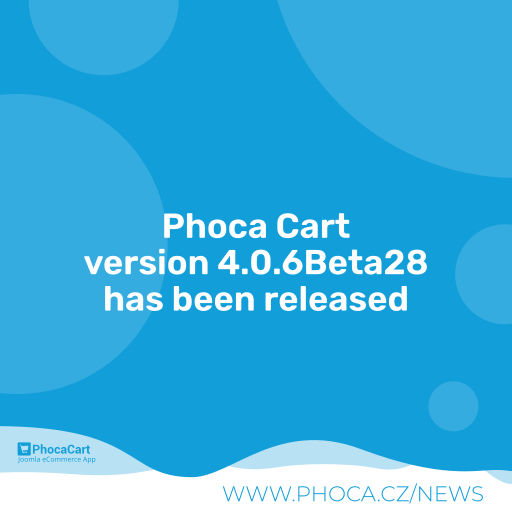
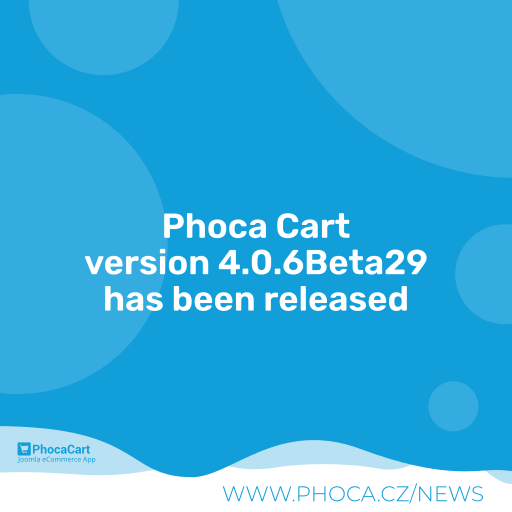
4.0.6Beta29

Changed region(s): [[0.1562, 0.5, 0.8438, 0.5312]]

diff --git a/media/js/phoca/phocafilter.min.js b/media/js/phoca/phocafilter.min.js
@@ -1,1 +1,1 @@
-"use strict";function _readOnlyError(e){throw new TypeError('"'+e+'" is read-only')}function ownKeys(r,e){var t,i=Object.keys(r);return Object.getOwnPropertySymbols&&(t=Object.getOwnPropertySymbols(r),e&&(t=t.filter(function(e){return Object.getOwnPropertyDescriptor(r,e).enumerable})),i.push.apply(i,t)),i}function _objectSpread(r){for(var e=1;e<arguments.length;e++){var t=null!=arguments[e]?arguments[e]:{};e%2?ownKeys(Object(t),!0).forEach(function(e){_defineProperty(r,e,t[e])}):Object.getOwnPropertyDescriptors?Object.defineProperties(r,Object.getOwnPropertyDescriptors(t)):ownKeys(Object(t)).forEach(function(e){Object.defineProperty(r,e,Object.getOwnPropertyDescriptor(t,e))})}return r}function _defineProperty(e,r,t){return r in e?Object.defineProperty(e,r,{value:t,enumerable:!0,configurable:!0,writable:!0}):e[r]=t,e}function _slicedToArray(e,r){return _arrayWithHoles(e)||_iterableToArrayLimit(e,r)||_unsupportedIterableToArray(e,r)||_nonIterableRest()}function _nonIterableRest(){throw new TypeError("Invalid attempt to destructure non-iterable instance.\nIn order to be iterable, non-array objects must have a [Symbol.iterator]() method.")}function _unsupportedIterableToArray(e,r){if(e){if("string"==typeof e)return _arrayLikeToArray(e,r);var t=Object.prototype.toString.call(e).slice(8,-1);return"Map"===(t="Object"===t&&e.constructor?e.constructor.name:t)||"Set"===t?Array.from(e):"Arguments"===t||/^(?:Ui|I)nt(?:8|16|32)(?:Clamped)?Array$/.test(t)?_arrayLikeToArray(e,r):void 0}}function _arrayLikeToArray(e,r){(null==r||r>e.length)&&(r=e.length);for(var t=0,i=new Array(r);t<r;t++)i[t]=e[t];return i}function _iterableToArrayLimit(e,r){var t=null==e?null:"undefined"!=typeof Symbol&&e[Symbol.iterator]||e["@@iterator"];if(null!=t){var i,l,a=[],o=!0,n=!1;try{for(t=t.call(e);!(o=(i=t.next()).done)&&(a.push(i.value),!r||a.length!==r);o=!0);}catch(e){n=!0,l=e}finally{try{o||null==t.return||t.return()}finally{if(n)throw l}}return a}}function _arrayWithHoles(e){if(Array.isArray(e))return e}function _typeof(e){return(_typeof="function"==typeof Symbol&&"symbol"==typeof Symbol.iterator?function(e){return typeof e}:function(e){return e&&"function"==typeof Symbol&&e.constructor===Symbol&&e!==Symbol.prototype?"symbol":typeof e})(e)}var phFilterNewUrlSet="",phFilterNewUrlRemove="",phFilterNewUrlSetPreviousParamWaiting=0,phFilterNewUrlRemovePreviousParamWaiting=0;function phEscapeRegExp(e){return e.replace(/([.*+?^=!:${}()|\[\]\/\\])/g,"\\$1")}function phReplaceAll(e,r,t){return t.replace(new RegExp(phEscapeRegExp(e),"g"),r)}function phEncode(e){e=encodeURIComponent(e);return e=phReplaceAll("%5B","[",e),e=phReplaceAll("%5D","]",e),e=phReplaceAll("%2C",",",e),e=phReplaceAll("%3A",":",e)}function phArrayToString(e){e=phReplaceAll("[","(",e);return e=phReplaceAll("]",")",e)}function phStringToArray(e){e=phReplaceAll("(","[",e);return e=phReplaceAll(")","]",e)}function phCleanArray(e){for(var r=[],t=0;t<e.length;t++)e[t]&&r.push(e[t]);return r}function phCleanEmptyParams(e){return e.replace(/&?[^&?]+=(?=(?:&|$))/g,"")}function phCleanAloneQuestionMark(e){return e="?"==(e="?&"==e?"?":e)?"":e}function phFilterValue(e){e=phReplaceAll("<","",e);return e=phReplaceAll(">","",e)}function phResetNewUrl(e){phFilterNewUrlSet=phFilterNewUrlRemove="",1==e&&(phFilterNewUrlSetPreviousParamWaiting=phFilterNewUrlRemovePreviousParamWaiting=0)}function phIsString(e){return"string"==typeof e}function phGetQueryString(e){return e.replace(/(?:^[^?#]*\?([^#]*).*$)?.*/,"$1")}function phUrlParam(e){if(null==e)return"";function o(e,r){null==(r="function"==typeof r?r():r)&&(r=""),t.push("".concat(encodeURIComponent(e),"=").concat(encodeURIComponent(r)))}function n(t,e){if(Array.isArray(e))e.forEach(function(e,r){p.test(t)?o(t,e):(r="object"===_typeof(e)&&null!=e?r:"",n("".concat(t,"[").concat(r,"]"),e))});else if("object"===_typeof(e)&&null!=e)for(var r=0,i=Object.entries(e);r<i.length;r++){var l=_slicedToArray(i[r],2),a=l[0],l=l[1];n("".concat(t,"[").concat(a,"]"),l)}else o(t,e)}var t=[],p=/\[\]$/;if(Array.isArray(e))e.forEach(function(e){return o(e.name,e.value)});else for(var r=0,i=Object.entries(e);r<i.length;r++){var l=_slicedToArray(i[r],2);n(l[0],l[1])}return t.join("&")}function phUrlDeParam(e,n){var p={},c={true:!0,false:!1,null:null};return e.replace(/\+/g," ").split("&").forEach(function(e){var e=e.split("="),r=decodeURIComponent(e[0]),t="",i=p,l=r.split("]["),a=l.length-1,a=/\[/.test(l[0])&&/\]$/.test(l[a])?(l[a]=l[a].replace(/\]$/,""),(l=l.shift().split("[").concat(l)).length-1):0;if(2===e.length)if(t=decodeURIComponent(e[1]),n&&(t=t&&!isNaN(t)?+t:"undefined"===t?void 0:void 0!==c[t]?c[t]:t),a)for(var o=0;o<=a;o++)i=i[r=""===l[o]?i.length:l[o]]=o<a?i[r]||(l[o+1]&&isNaN(l[o+1])?{}:[]):t;else Array.isArray(p[r])?p[r].push(t):void 0!==p[r]?p[r]=[p[r],t]:p[r]=t;else r&&(p[r]=n?void 0:"")}),p}function phUrlParamQueryString(e,r,t){var i,l,a,o="";return void 0!==r?(a=(i=e.match(/^([^#?]*)\??([^#]*)(#?.*)/))[3]||"",o=2===t&&phIsString(r)?r.replace(/^.*\?|#.*$/g,""):(l=phUrlDeParam(i[2]),r=phIsString(r)?phUrlDeParamQueryString(r):r,phUrlParam(o=2===t?r:1===t?_objectSpread(_objectSpread({},r),l):_objectSpread(_objectSpread({},l),r))),i[1]+(o||!i[1]?"?":"")+o+a):phGetQueryString(void 0!==e?e:window.location.href)}function phUrlDeParamQueryString(e,r){return phUrlDeParam(e=void 0===e||"boolean"==typeof e?(r=e,phUrlParamQueryString()):phIsString(e)?e.replace(/^.*\?|#.*$/g,""):e,r)}function phRemoveFilter(e,r,t,i,l,a,o,n){var p=Joomla.getOptions("phParamsPC");1!=p.ajaxSearchingFilteringItems&&(phFilterNewUrlSet=i),e=phArrayToString(e);var c,h=phArrayToString(h=phUrlParamQueryString()),u=phUrlDeParamQueryString(""!==phFilterNewUrlRemove||1==phFilterNewUrlRemovePreviousParamWaiting?phFilterNewUrlRemove:h),s={},m=0;if(void 0!==u.start&&(s.start=0),void 0!==u.limitstart&&(s.limitstart=0),1!=a&&void 0!==u[e]?-1===(a=phCleanArray(a=(h=u[e]).split(","))).indexOf(r)||(-1<(r=a.indexOf(r))&&a.splice(r,1),(h=a.join())?s[e]=h:(delete u[e],s=u,m=2)):(delete u[e],s=u,m=2),1==t&&1!=l||1!=t)return""==(c=i)&&(c=document.location.pathname),document.location=c,1;if(c=location.search,c=phArrayToString(c=""!==phFilterNewUrlRemove||1==phFilterNewUrlRemovePreviousParamWaiting?phFilterNewUrlRemove:c),phFilterNewUrlRemove=phReplaceAll("%2C",",",phFilterNewUrlRemove=phUrlParamQueryString(c,s,m)),phFilterNewUrlRemove=phReplaceAll("%5B","[",phFilterNewUrlRemove),phFilterNewUrlRemove=phReplaceAll("%5D","]",phFilterNewUrlRemove),phFilterNewUrlRemove=phCleanAloneQuestionMark(phFilterNewUrlRemove=phStringToArray(phFilterNewUrlRemove=phReplaceAll("%3A",":",phFilterNewUrlRemove))),1==o){if((phFilterNewUrlRemovePreviousParamWaiting=1)==t&&1==p.ajaxSearchingFilteringItems)return 2}else{if(1==t&&1==p.ajaxSearchingFilteringItems)return phUpdatePageAndParts(phFilterNewUrlRemove,n),phResetNewUrl(1),2;""==phFilterNewUrlRemove&&(phFilterNewUrlRemove=document.location.pathname),document.location=phFilterNewUrlRemove,phResetNewUrl()}return 1}function phSetFilter(e,r,t,i,l,a,o,n){var p=Joomla.getOptions("phParamsPC");r=phFilterValue(r),e=phArrayToString(e);var c=phArrayToString(c=phUrlParamQueryString()),h=phUrlDeParamQueryString(1==phFilterNewUrlSetPreviousParamWaiting?phFilterNewUrlSet=phArrayToString(phFilterNewUrlSet):c),c={};if(void 0!==h.start&&(c.start=0),void 0!==h.limitstart&&(c.limitstart=0),1==a?c[e]=r:""===r||(void 0!==h[e]?(-1===(h=phCleanArray(h=(a=h[e]).split(","))).indexOf(r)&&(h.push(r),a=h.join()),c[e]=a):c[e]=r),i=1==t&&1!=l||1!=t?i:location.search,i=phArrayToString(i=1==phFilterNewUrlSetPreviousParamWaiting?phFilterNewUrlSet:i),phFilterNewUrlSet=phReplaceAll("%2C",",",phFilterNewUrlSet=phUrlParamQueryString(i,c,0)),phFilterNewUrlSet=phReplaceAll("%5B","[",phFilterNewUrlSet),phFilterNewUrlSet=phReplaceAll("%5D","]",phFilterNewUrlSet),phFilterNewUrlSet=phCleanAloneQuestionMark(phFilterNewUrlSet=phCleanEmptyParams(phFilterNewUrlSet=phStringToArray(phFilterNewUrlSet=phReplaceAll("%3A",":",phFilterNewUrlSet)))),1==o){if((phFilterNewUrlSetPreviousParamWaiting=1)==t&&1==p.ajaxSearchingFilteringItems)return 2}else{if(1==t&&1==p.ajaxSearchingFilteringItems)return phUpdatePageAndParts(phFilterNewUrlSet,n),phResetNewUrl(1),2;document.location=phFilterNewUrlSet,phResetNewUrl()}return 1}function phChangeFilter(e,r,t,i,l,a,o){var n=Joomla.getOptions("phVarsModPhocacartFilter"),p=Joomla.getOptions("phParamsModPhocacartFilter"),c=n.isItemsView,h=n.isSef,u=n.urlItemsView,n=(n.urlItemsViewWithoutParams,1);"itemview"==i?n=phSetFilter(e,r=void 0===r?"":r,1,0,1,l,a,o):"text"==i?n=(1==t?phSetFilter:phRemoveFilter)(e,r,c,u,1,l,a,o):"category"==i?(_readOnlyError("urlItemsView"),1==p.removeParametersCat?document.location=u:(p=phUrlParamQueryString(),1==c?1==h?document.location=phUrlParamQueryString(u,p,2):phRemoveFilter(e,r,c,u,1,l,a,o):document.location=u)):"color"==i||"image"==i?jQuery(t).hasClass("on")?(n=phRemoveFilter(e,r,c,u,1,l,a,o),jQuery(t).removeClass("on")):(n=phSetFilter(e,r,c,u,1,l,a,o),jQuery(t).addClass("on")):n=(t.checked?phSetFilter:phRemoveFilter)(e,r,c,u,1,l,a,o),startFullOverlay(n)}function phChangeSearch(e,r,t){var i=Joomla.getOptions("phVarsModPhocacartSearch"),l=Joomla.getOptions("phParamsModPhocacartSearch"),a=i.isItemsView,o=i.urlItemsView,n=i.urlItemsViewWithoutParams,p=1,i=a;alert(l.searchOptions),p=1==t?(1==l.searchOptions?0<jQuery("#phSearchBoxSearchAllProducts:checked").length&&(o=n,i=0):i=0,phSetFilter(e,r,a,o,i,1,0,2)):phRemoveFilter(e,r,a,o,i,1,0,2),startFullOverlay(p)}function phPriceFilterRange(){var i=Joomla.getOptions("phParamsPC"),l=Joomla.getOptions("phLangPC");"function"==typeof jQuery("#phPriceFilterRange").slider&&jQuery("#phPriceFilterRange").slider({range:!0,min:i.filterPriceMin,max:i.filterPriceMax,values:[i.filterPriceFrom,i.filterPriceTo],slide:function(e,r){jQuery("#phPriceFromTopricefrom").val(r.values[0]),jQuery("#phPriceFromTopriceto").val(r.values[1]),jQuery("#phPriceFilterPrice").html(l.COM_PHOCACART_PRICE+": "+phGetPriceFormat(r.values[0])+" - "+phGetPriceFormat(r.values[1]))}}),jQuery("#phPriceFilterPrice").html(l.COM_PHOCACART_PRICE+": "+phGetPriceFormat(i.filterPriceFrom)+" - "+phGetPriceFormat(i.filterPriceTo)),jQuery("#phPriceFromTopricefrom").on("change",function(e){var r=jQuery("#phPriceFromTopricefrom").val(),t=jQuery("#phPriceFromTopriceto").val();""==t&&(t=i.filterPriceMax),""==r&&(r=i.filterPriceMin),Number(t)<Number(r)&&(t=r,jQuery("#phPriceFromTopriceto").val(t)),"function"==typeof jQuery("#phPriceFilterRange").slider&&jQuery("#phPriceFilterRange").slider({values:[r,t]}),jQuery("#phPriceFilterPrice").html(l.COM_PHOCACART_PRICE+": "+phGetPriceFormat(r)+" - "+phGetPriceFormat(t))}),jQuery("#phPriceFromTopriceto").on("change",function(e){var r=jQuery("#phPriceFromTopricefrom").val(),t=jQuery("#phPriceFromTopriceto").val();""==t&&(t=i.filterPriceMax),""==r&&(r=i.filterPriceMin),Number(t)<Number(r)&&(t=r,jQuery("#phPriceFromTopriceto").val(t)),"function"==typeof jQuery("#phPriceFilterRange").slider&&jQuery("#phPriceFilterRange").slider({values:[r,t]}),jQuery("#phPriceFilterPrice").html(l.COM_PHOCACART_PRICE+": "+phGetPriceFormat(r)+" - "+phGetPriceFormat(t))})}function phClearField(e){jQuery(e).val(""),"#phPriceFromTopricefrom"!=e&&"#phPriceFromTopriceto"!=e||phPriceFilterRange()}jQuery(document).ready(function(){jQuery(".collapse").on("shown.bs.collapse",function(){jQuery(this).parent().find(".glyphicon-triangle-right").removeClass("glyphicon-triangle-right").addClass("glyphicon-triangle-bottom"),jQuery(this).parent().find(".fa-caret-right").removeClass("fa-caret-right").addClass("fa-caret-down");var e,r=jQuery(this).parent().find("svg use").first();0<r.length&&(e=(e=r.attr("xlink:href")).replace("#pc-si-triangle-right","#pc-si-triangle-bottom"),r.attr("xlink:href",e))}).on("hidden.bs.collapse",function(){jQuery(this).parent().find(".glyphicon-triangle-bottom").removeClass("glyphicon-triangle-bottom").addClass("glyphicon-triangle-right"),jQuery(this).parent().find(".fa-caret-down").removeClass("fa-caret-down").addClass("fa-caret-right");var e,r=jQuery(this).parent().find("svg use").first();0<r.length&&(e=(e=r.attr("xlink:href")).replace("#pc-si-triangle-bottom","#pc-si-triangle-right"),r.attr("xlink:href",e))}),phPriceFilterRange()});
+"use strict";function _readOnlyError(e){throw new TypeError('"'+e+'" is read-only')}function ownKeys(r,e){var t,i=Object.keys(r);return Object.getOwnPropertySymbols&&(t=Object.getOwnPropertySymbols(r),e&&(t=t.filter(function(e){return Object.getOwnPropertyDescriptor(r,e).enumerable})),i.push.apply(i,t)),i}function _objectSpread(r){for(var e=1;e<arguments.length;e++){var t=null!=arguments[e]?arguments[e]:{};e%2?ownKeys(Object(t),!0).forEach(function(e){_defineProperty(r,e,t[e])}):Object.getOwnPropertyDescriptors?Object.defineProperties(r,Object.getOwnPropertyDescriptors(t)):ownKeys(Object(t)).forEach(function(e){Object.defineProperty(r,e,Object.getOwnPropertyDescriptor(t,e))})}return r}function _defineProperty(e,r,t){return r in e?Object.defineProperty(e,r,{value:t,enumerable:!0,configurable:!0,writable:!0}):e[r]=t,e}function _slicedToArray(e,r){return _arrayWithHoles(e)||_iterableToArrayLimit(e,r)||_unsupportedIterableToArray(e,r)||_nonIterableRest()}function _nonIterableRest(){throw new TypeError("Invalid attempt to destructure non-iterable instance.\nIn order to be iterable, non-array objects must have a [Symbol.iterator]() method.")}function _unsupportedIterableToArray(e,r){if(e){if("string"==typeof e)return _arrayLikeToArray(e,r);var t=Object.prototype.toString.call(e).slice(8,-1);return"Map"===(t="Object"===t&&e.constructor?e.constructor.name:t)||"Set"===t?Array.from(e):"Arguments"===t||/^(?:Ui|I)nt(?:8|16|32)(?:Clamped)?Array$/.test(t)?_arrayLikeToArray(e,r):void 0}}function _arrayLikeToArray(e,r){(null==r||r>e.length)&&(r=e.length);for(var t=0,i=new Array(r);t<r;t++)i[t]=e[t];return i}function _iterableToArrayLimit(e,r){var t=null==e?null:"undefined"!=typeof Symbol&&e[Symbol.iterator]||e["@@iterator"];if(null!=t){var i,l,a=[],o=!0,n=!1;try{for(t=t.call(e);!(o=(i=t.next()).done)&&(a.push(i.value),!r||a.length!==r);o=!0);}catch(e){n=!0,l=e}finally{try{o||null==t.return||t.return()}finally{if(n)throw l}}return a}}function _arrayWithHoles(e){if(Array.isArray(e))return e}function _typeof(e){return(_typeof="function"==typeof Symbol&&"symbol"==typeof Symbol.iterator?function(e){return typeof e}:function(e){return e&&"function"==typeof Symbol&&e.constructor===Symbol&&e!==Symbol.prototype?"symbol":typeof e})(e)}var phFilterNewUrlSet="",phFilterNewUrlRemove="",phFilterNewUrlSetPreviousParamWaiting=0,phFilterNewUrlRemovePreviousParamWaiting=0;function phEscapeRegExp(e){return e.replace(/([.*+?^=!:${}()|\[\]\/\\])/g,"\\$1")}function phReplaceAll(e,r,t){return t.replace(new RegExp(phEscapeRegExp(e),"g"),r)}function phEncode(e){e=encodeURIComponent(e);return e=phReplaceAll("%5B","[",e),e=phReplaceAll("%5D","]",e),e=phReplaceAll("%2C",",",e),e=phReplaceAll("%3A",":",e)}function phArrayToString(e){e=phReplaceAll("[","(",e);return e=phReplaceAll("]",")",e)}function phStringToArray(e){e=phReplaceAll("(","[",e);return e=phReplaceAll(")","]",e)}function phCleanArray(e){for(var r=[],t=0;t<e.length;t++)e[t]&&r.push(e[t]);return r}function phCleanEmptyParams(e){return e.replace(/&?[^&?]+=(?=(?:&|$))/g,"")}function phCleanAloneQuestionMark(e){return e="?"==(e="?&"==e?"?":e)?"":e}function phFilterValue(e){e=phReplaceAll("<","",e);return e=phReplaceAll(">","",e)}function phResetNewUrl(e){phFilterNewUrlSet=phFilterNewUrlRemove="",1==e&&(phFilterNewUrlSetPreviousParamWaiting=phFilterNewUrlRemovePreviousParamWaiting=0)}function phIsString(e){return"string"==typeof e}function phGetQueryString(e){return e.replace(/(?:^[^?#]*\?([^#]*).*$)?.*/,"$1")}function phUrlParam(e){if(null==e)return"";function o(e,r){null==(r="function"==typeof r?r():r)&&(r=""),t.push("".concat(encodeURIComponent(e),"=").concat(encodeURIComponent(r)))}function n(t,e){if(Array.isArray(e))e.forEach(function(e,r){p.test(t)?o(t,e):(r="object"===_typeof(e)&&null!=e?r:"",n("".concat(t,"[").concat(r,"]"),e))});else if("object"===_typeof(e)&&null!=e)for(var r=0,i=Object.entries(e);r<i.length;r++){var l=_slicedToArray(i[r],2),a=l[0],l=l[1];n("".concat(t,"[").concat(a,"]"),l)}else o(t,e)}var t=[],p=/\[\]$/;if(Array.isArray(e))e.forEach(function(e){return o(e.name,e.value)});else for(var r=0,i=Object.entries(e);r<i.length;r++){var l=_slicedToArray(i[r],2);n(l[0],l[1])}return t.join("&")}function phUrlDeParam(e,n){var p={},c={true:!0,false:!1,null:null};return e.replace(/\+/g," ").split("&").forEach(function(e){var e=e.split("="),r=decodeURIComponent(e[0]),t="",i=p,l=r.split("]["),a=l.length-1,a=/\[/.test(l[0])&&/\]$/.test(l[a])?(l[a]=l[a].replace(/\]$/,""),(l=l.shift().split("[").concat(l)).length-1):0;if(2===e.length)if(t=decodeURIComponent(e[1]),n&&(t=t&&!isNaN(t)?+t:"undefined"===t?void 0:void 0!==c[t]?c[t]:t),a)for(var o=0;o<=a;o++)i=i[r=""===l[o]?i.length:l[o]]=o<a?i[r]||(l[o+1]&&isNaN(l[o+1])?{}:[]):t;else Array.isArray(p[r])?p[r].push(t):void 0!==p[r]?p[r]=[p[r],t]:p[r]=t;else r&&(p[r]=n?void 0:"")}),p}function phUrlParamQueryString(e,r,t){var i,l,a,o="";return void 0!==r?(a=(i=e.match(/^([^#?]*)\??([^#]*)(#?.*)/))[3]||"",o=2===t&&phIsString(r)?r.replace(/^.*\?|#.*$/g,""):(l=phUrlDeParam(i[2]),r=phIsString(r)?phUrlDeParamQueryString(r):r,phUrlParam(o=2===t?r:1===t?_objectSpread(_objectSpread({},r),l):_objectSpread(_objectSpread({},l),r))),i[1]+(o||!i[1]?"?":"")+o+a):phGetQueryString(void 0!==e?e:window.location.href)}function phUrlDeParamQueryString(e,r){return phUrlDeParam(e=void 0===e||"boolean"==typeof e?(r=e,phUrlParamQueryString()):phIsString(e)?e.replace(/^.*\?|#.*$/g,""):e,r)}function phRemoveFilter(e,r,t,i,l,a,o,n){var p=Joomla.getOptions("phParamsPC");1!=p.ajaxSearchingFilteringItems&&(phFilterNewUrlSet=i),e=phArrayToString(e);var c,h=phArrayToString(h=phUrlParamQueryString()),u=phUrlDeParamQueryString(""!==phFilterNewUrlRemove||1==phFilterNewUrlRemovePreviousParamWaiting?phFilterNewUrlRemove:h),s={},m=0;if(void 0!==u.start&&(s.start=0),void 0!==u.limitstart&&(s.limitstart=0),1!=a&&void 0!==u[e]?-1===(a=phCleanArray(a=(h=u[e]).split(","))).indexOf(r)||(-1<(r=a.indexOf(r))&&a.splice(r,1),(h=a.join())?s[e]=h:(delete u[e],s=u,m=2)):(delete u[e],s=u,m=2),1==t&&1!=l||1!=t)return""==(c=i)&&(c=document.location.pathname),document.location=c,1;if(c=location.search,c=phArrayToString(c=""!==phFilterNewUrlRemove||1==phFilterNewUrlRemovePreviousParamWaiting?phFilterNewUrlRemove:c),phFilterNewUrlRemove=phReplaceAll("%2C",",",phFilterNewUrlRemove=phUrlParamQueryString(c,s,m)),phFilterNewUrlRemove=phReplaceAll("%5B","[",phFilterNewUrlRemove),phFilterNewUrlRemove=phReplaceAll("%5D","]",phFilterNewUrlRemove),phFilterNewUrlRemove=phCleanAloneQuestionMark(phFilterNewUrlRemove=phStringToArray(phFilterNewUrlRemove=phReplaceAll("%3A",":",phFilterNewUrlRemove))),1==o){if((phFilterNewUrlRemovePreviousParamWaiting=1)==t&&1==p.ajaxSearchingFilteringItems)return 2}else{if(1==t&&1==p.ajaxSearchingFilteringItems)return phUpdatePageAndParts(phFilterNewUrlRemove,n),phResetNewUrl(1),2;""==phFilterNewUrlRemove&&(phFilterNewUrlRemove=document.location.pathname),document.location=phFilterNewUrlRemove,phResetNewUrl()}return 1}function phSetFilter(e,r,t,i,l,a,o,n){var p=Joomla.getOptions("phParamsPC");r=phFilterValue(r),e=phArrayToString(e);var c=phArrayToString(c=phUrlParamQueryString()),h=phUrlDeParamQueryString(1==phFilterNewUrlSetPreviousParamWaiting?phFilterNewUrlSet=phArrayToString(phFilterNewUrlSet):c),c={};if(void 0!==h.start&&(c.start=0),void 0!==h.limitstart&&(c.limitstart=0),1==a?c[e]=r:""===r||(void 0!==h[e]?(-1===(h=phCleanArray(h=(a=h[e]).split(","))).indexOf(r)&&(h.push(r),a=h.join()),c[e]=a):c[e]=r),i=1==t&&1!=l||1!=t?i:location.search,i=phArrayToString(i=1==phFilterNewUrlSetPreviousParamWaiting?phFilterNewUrlSet:i),phFilterNewUrlSet=phReplaceAll("%2C",",",phFilterNewUrlSet=phUrlParamQueryString(i,c,0)),phFilterNewUrlSet=phReplaceAll("%5B","[",phFilterNewUrlSet),phFilterNewUrlSet=phReplaceAll("%5D","]",phFilterNewUrlSet),phFilterNewUrlSet=phCleanAloneQuestionMark(phFilterNewUrlSet=phCleanEmptyParams(phFilterNewUrlSet=phStringToArray(phFilterNewUrlSet=phReplaceAll("%3A",":",phFilterNewUrlSet)))),1==o){if((phFilterNewUrlSetPreviousParamWaiting=1)==t&&1==p.ajaxSearchingFilteringItems)return 2}else{if(1==t&&1==p.ajaxSearchingFilteringItems)return phUpdatePageAndParts(phFilterNewUrlSet,n),phResetNewUrl(1),2;document.location=phFilterNewUrlSet,phResetNewUrl()}return 1}function phChangeFilter(e,r,t,i,l,a,o){var n=Joomla.getOptions("phVarsModPhocacartFilter"),p=Joomla.getOptions("phParamsModPhocacartFilter"),c=n.isItemsView,h=n.isSef,u=n.urlItemsView,n=(n.urlItemsViewWithoutParams,1);"itemview"==i?n=phSetFilter(e,r=void 0===r?"":r,1,0,1,l,a,o):"text"==i?n=(1==t?phSetFilter:phRemoveFilter)(e,r,c,u,1,l,a,o):"category"==i?(_readOnlyError("urlItemsView"),1==p.removeParametersCat?document.location=u:(p=phUrlParamQueryString(),1==c?1==h?document.location=phUrlParamQueryString(u,p,2):phRemoveFilter(e,r,c,u,1,l,a,o):document.location=u)):"color"==i||"image"==i?jQuery(t).hasClass("on")?(n=phRemoveFilter(e,r,c,u,1,l,a,o),jQuery(t).removeClass("on")):(n=phSetFilter(e,r,c,u,1,l,a,o),jQuery(t).addClass("on")):n=(t.checked?phSetFilter:phRemoveFilter)(e,r,c,u,1,l,a,o),startFullOverlay(n)}function phChangeSearch(e,r,t){var i=Joomla.getOptions("phVarsModPhocacartSearch"),l=Joomla.getOptions("phParamsModPhocacartSearch"),a=i.isItemsView,o=i.urlItemsView,n=i.urlItemsViewWithoutParams,p=1,i=a,p=1==t?(1==l.searchOptions?0<jQuery("#phSearchBoxSearchAllProducts:checked").length&&(o=n,i=0):i=0,phSetFilter(e,r,a,o,i,1,0,2)):phRemoveFilter(e,r,a,o,i,1,0,2);startFullOverlay(p)}function phPriceFilterRange(){var i=Joomla.getOptions("phParamsPC"),l=Joomla.getOptions("phLangPC");"function"==typeof jQuery("#phPriceFilterRange").slider&&jQuery("#phPriceFilterRange").slider({range:!0,min:i.filterPriceMin,max:i.filterPriceMax,values:[i.filterPriceFrom,i.filterPriceTo],slide:function(e,r){jQuery("#phPriceFromTopricefrom").val(r.values[0]),jQuery("#phPriceFromTopriceto").val(r.values[1]),jQuery("#phPriceFilterPrice").html(l.COM_PHOCACART_PRICE+": "+phGetPriceFormat(r.values[0])+" - "+phGetPriceFormat(r.values[1]))}}),jQuery("#phPriceFilterPrice").html(l.COM_PHOCACART_PRICE+": "+phGetPriceFormat(i.filterPriceFrom)+" - "+phGetPriceFormat(i.filterPriceTo)),jQuery("#phPriceFromTopricefrom").on("change",function(e){var r=jQuery("#phPriceFromTopricefrom").val(),t=jQuery("#phPriceFromTopriceto").val();""==t&&(t=i.filterPriceMax),""==r&&(r=i.filterPriceMin),Number(t)<Number(r)&&(t=r,jQuery("#phPriceFromTopriceto").val(t)),"function"==typeof jQuery("#phPriceFilterRange").slider&&jQuery("#phPriceFilterRange").slider({values:[r,t]}),jQuery("#phPriceFilterPrice").html(l.COM_PHOCACART_PRICE+": "+phGetPriceFormat(r)+" - "+phGetPriceFormat(t))}),jQuery("#phPriceFromTopriceto").on("change",function(e){var r=jQuery("#phPriceFromTopricefrom").val(),t=jQuery("#phPriceFromTopriceto").val();""==t&&(t=i.filterPriceMax),""==r&&(r=i.filterPriceMin),Number(t)<Number(r)&&(t=r,jQuery("#phPriceFromTopriceto").val(t)),"function"==typeof jQuery("#phPriceFilterRange").slider&&jQuery("#phPriceFilterRange").slider({values:[r,t]}),jQuery("#phPriceFilterPrice").html(l.COM_PHOCACART_PRICE+": "+phGetPriceFormat(r)+" - "+phGetPriceFormat(t))})}function phClearField(e){jQuery(e).val(""),"#phPriceFromTopricefrom"!=e&&"#phPriceFromTopriceto"!=e||phPriceFilterRange()}jQuery(document).ready(function(){jQuery(".collapse").on("shown.bs.collapse",function(){jQuery(this).parent().find(".glyphicon-triangle-right").removeClass("glyphicon-triangle-right").addClass("glyphicon-triangle-bottom"),jQuery(this).parent().find(".fa-caret-right").removeClass("fa-caret-right").addClass("fa-caret-down");var e,r=jQuery(this).parent().find("svg use").first();0<r.length&&(e=(e=r.attr("xlink:href")).replace("#pc-si-triangle-right","#pc-si-triangle-bottom"),r.attr("xlink:href",e))}).on("hidden.bs.collapse",function(){jQuery(this).parent().find(".glyphicon-triangle-bottom").removeClass("glyphicon-triangle-bottom").addClass("glyphicon-triangle-right"),jQuery(this).parent().find(".fa-caret-down").removeClass("fa-caret-down").addClass("fa-caret-right");var e,r=jQuery(this).parent().find("svg use").first();0<r.length&&(e=(e=r.attr("xlink:href")).replace("#pc-si-triangle-bottom","#pc-si-triangle-right"),r.attr("xlink:href",e))}),phPriceFilterRange()});

diff --git a/media/js/phoca/phocafilter.js b/media/js/phoca/phocafilter.js
@@ -669,8 +669,8 @@ function phChangeSearch(paramV, value, formAction) {
     let phA = 1;
 
     let filteredProductsOnly = isItemsView;
-
-    alert(phParams["searchOptions"]);
+    
+    
     if (formAction == 1) {
         if (phParams["searchOptions"] == 1) {
             //jQuery("#phSearchBoxSearchAllProducts:checked").val();

diff --git a/README.MD b/README.MD
@@ -122,7 +122,7 @@ Phoca Cart is e-commerce extension - powerful shopping cart for Joomla! CMS. Pho
 
 ## Version (Joomla! 4.x)
 
-4.0.6Beta28
+4.0.6Beta29
 
 
 
